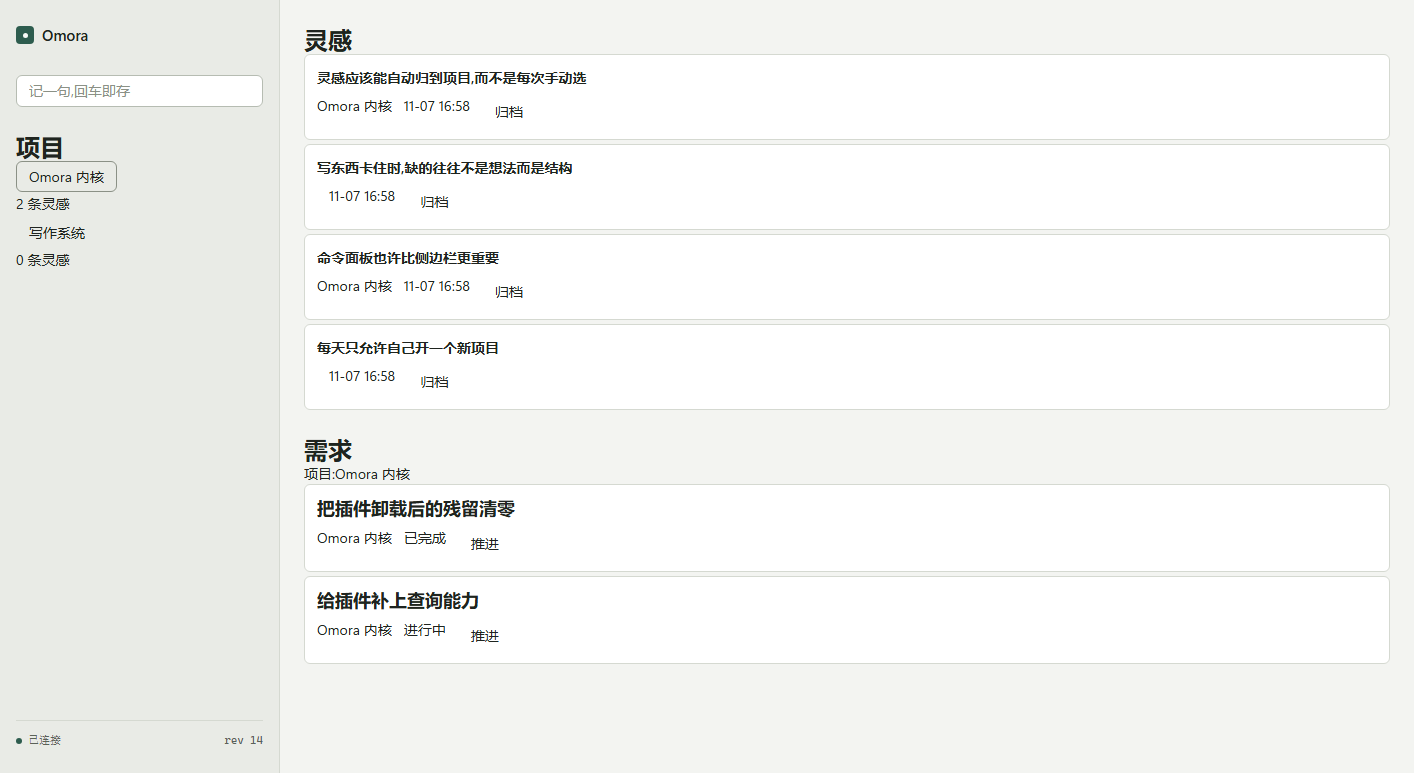
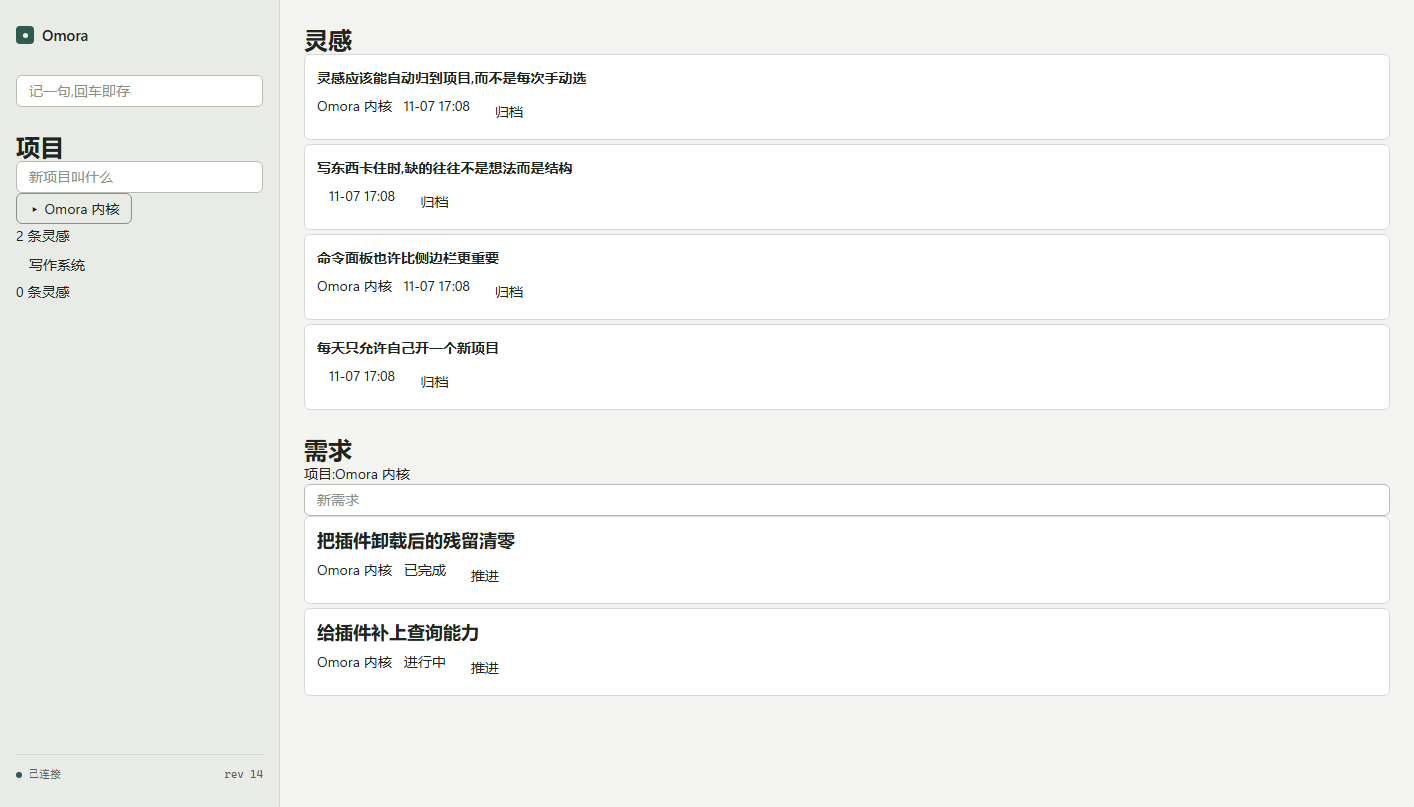
feat: 聚焦的项目在列表里看得出来
projects 也折叠自己的 focused 事件,给当前项目加标记;主区限制阅读宽度。

diff --git a/web/src/shell/main-area.tsx b/web/src/shell/main-area.tsx
@@ -14,12 +14,20 @@ export interface MainAreaProps {
 const MAIN_STYLE: CSSProperties = {
   display: "flex",
   flexDirection: "column",
-  gap: "var(--omora-space-xl)",
   minWidth: 0,
   minHeight: 0,
   overflowY: "auto",
   padding: "var(--omora-space-xl)",
   background: "var(--omora-color-bg)",
+};
+
+const COLUMN_STYLE: CSSProperties = {
+  display: "flex",
+  flexDirection: "column",
+  gap: "var(--omora-space-xl)",
+  width: "100%",
+  maxWidth: "68rem",
+  margin: "0 auto",
 };
 
 export function MainArea({
@@ -30,13 +38,15 @@ export function MainArea({
 }: MainAreaProps): ReactElement {
   return (
     <main data-slot="main" style={MAIN_STYLE}>
-      <SlotContent
-        contributions={contributions}
-        onCommand={onCommand}
-        emptyTitle={emptyTitle}
-        emptyHint={emptyHint}
-        fill
-      />
+      <div style={COLUMN_STYLE}>
+        <SlotContent
+          contributions={contributions}
+          onCommand={onCommand}
+          emptyTitle={emptyTitle}
+          emptyHint={emptyHint}
+          fill
+        />
+      </div>
     </main>
   );
 }

diff --git a/plugins/projects/src/omora_plugins_projects/__init__.py b/plugins/projects/src/omora_plugins_projects/__init__.py
@@ -58,6 +58,7 @@ def _fold_created(state: dict[str, object], data: Mapping[str, object]) -> None:
             "at": data.get("at"),
             "ideas": [],
             "ideaCountLabel": "0 条灵感",
+            "label": title,
         }
     )
 
@@ -86,6 +87,15 @@ def _fold_idea_assigned(state: dict[str, object], data: Mapping[str, object]) ->
             item["ideas"] = ideas
         cast("list[object]", ideas).append({"id": idea_id, "title": data.get("ideaTitle", "")})
         item["ideaCountLabel"] = f"{len(cast('list[object]', ideas))} 条灵感"
+
+
+def _fold_focused(state: dict[str, object], data: Mapping[str, object]) -> None:
+    """记住当前看的是哪个项目,列表上用一个小标记显示出来。"""
+    focused = data.get("id")
+    for item in _item_list(state):
+        title = item.get("title")
+        marker = "▸ " if isinstance(focused, str) and item.get("id") == focused else ""
+        item["label"] = f"{marker}{title if isinstance(title, str) else ''}"
 
 
 def _focus_command(ctx: PluginContext) -> Handler:
@@ -182,7 +192,7 @@ def _view(_state: Mapping[str, object]) -> Sequence[Node]:
                         stack(
                             [
                                 button(
-                                    "$item.title",
+                                    "$item.label",
                                     command=FOCUS_COMMAND,
                                     args={"id": "$item.id"},
                                     variant="ghost",
@@ -207,6 +217,7 @@ class ProjectsPlugin:
         ctx.state.register(CREATED_EVENT, _fold_created)
         ctx.state.register(ARCHIVED_EVENT, _fold_archived)
         ctx.state.register(IDEA_ASSIGNED_EVENT, _fold_idea_assigned)
+        ctx.state.register(FOCUSED_EVENT, _fold_focused)
         ctx.commands.register(CREATE_COMMAND, _create_command(ctx))
         ctx.commands.register(ARCHIVE_COMMAND, _archive_command(ctx))
         ctx.commands.register(FOCUS_COMMAND, _focus_command(ctx))

diff --git a/plugins/projects/tests/test_projects_plugin.py b/plugins/projects/tests/test_projects_plugin.py
@@ -58,6 +58,7 @@ def test_activate_registers_commands_query_service_and_contribution() -> None:
         "projects.created",
         "projects.archived",
         "ideas.assigned",
+        "projects.focused",
     }
 
 
@@ -85,6 +86,7 @@ def test_created_event_folds_into_items() -> None:
                 "at": NOW.isoformat(),
                 "ideas": [],
                 "ideaCountLabel": "0 条灵感",
+                "label": "写作台",
             }
         ]
     }
@@ -158,7 +160,7 @@ def test_sidebar_lists_project_titles_with_empty_state_text() -> None:
     leaves = _children(row)
     assert [leaf["type"] for leaf in leaves] == ["Button", "Text"]
     label = cast("dict[str, object]", leaves[0]["props"])["label"]
-    assert label == "$item.title", "点标题就是看这个项目"
+    assert label == "$item.label", "点标题就是看这个项目"
     count = cast("dict[str, object]", leaves[1]["props"])["text"]
     assert count == "$item.ideaCountLabel"
 
@@ -247,3 +249,17 @@ def test_create_rejects_blank_title() -> None:
         asyncio.run(context.fake_commands.invoke("projects.create", {"title": "  "}))
 
     assert context.fake_events.emitted == [], "空标题不该产生任何事件"
+
+
+def test_focused_project_is_marked_in_the_list() -> None:
+    context = _activated()
+    asyncio.run(context.fake_commands.invoke("projects.create", {"title": "写作台"}))
+    context.replay()
+
+    asyncio.run(
+        context.fake_events.emit("projects.focused", {"id": "project-1", "title": "写作台"})
+    )
+    context.replay()
+
+    items = cast("list[dict[str, object]]", context.fake_state.read()["items"])
+    assert items[0]["label"] == "▸ 写作台", "当前项目要在列表里看得出来"
